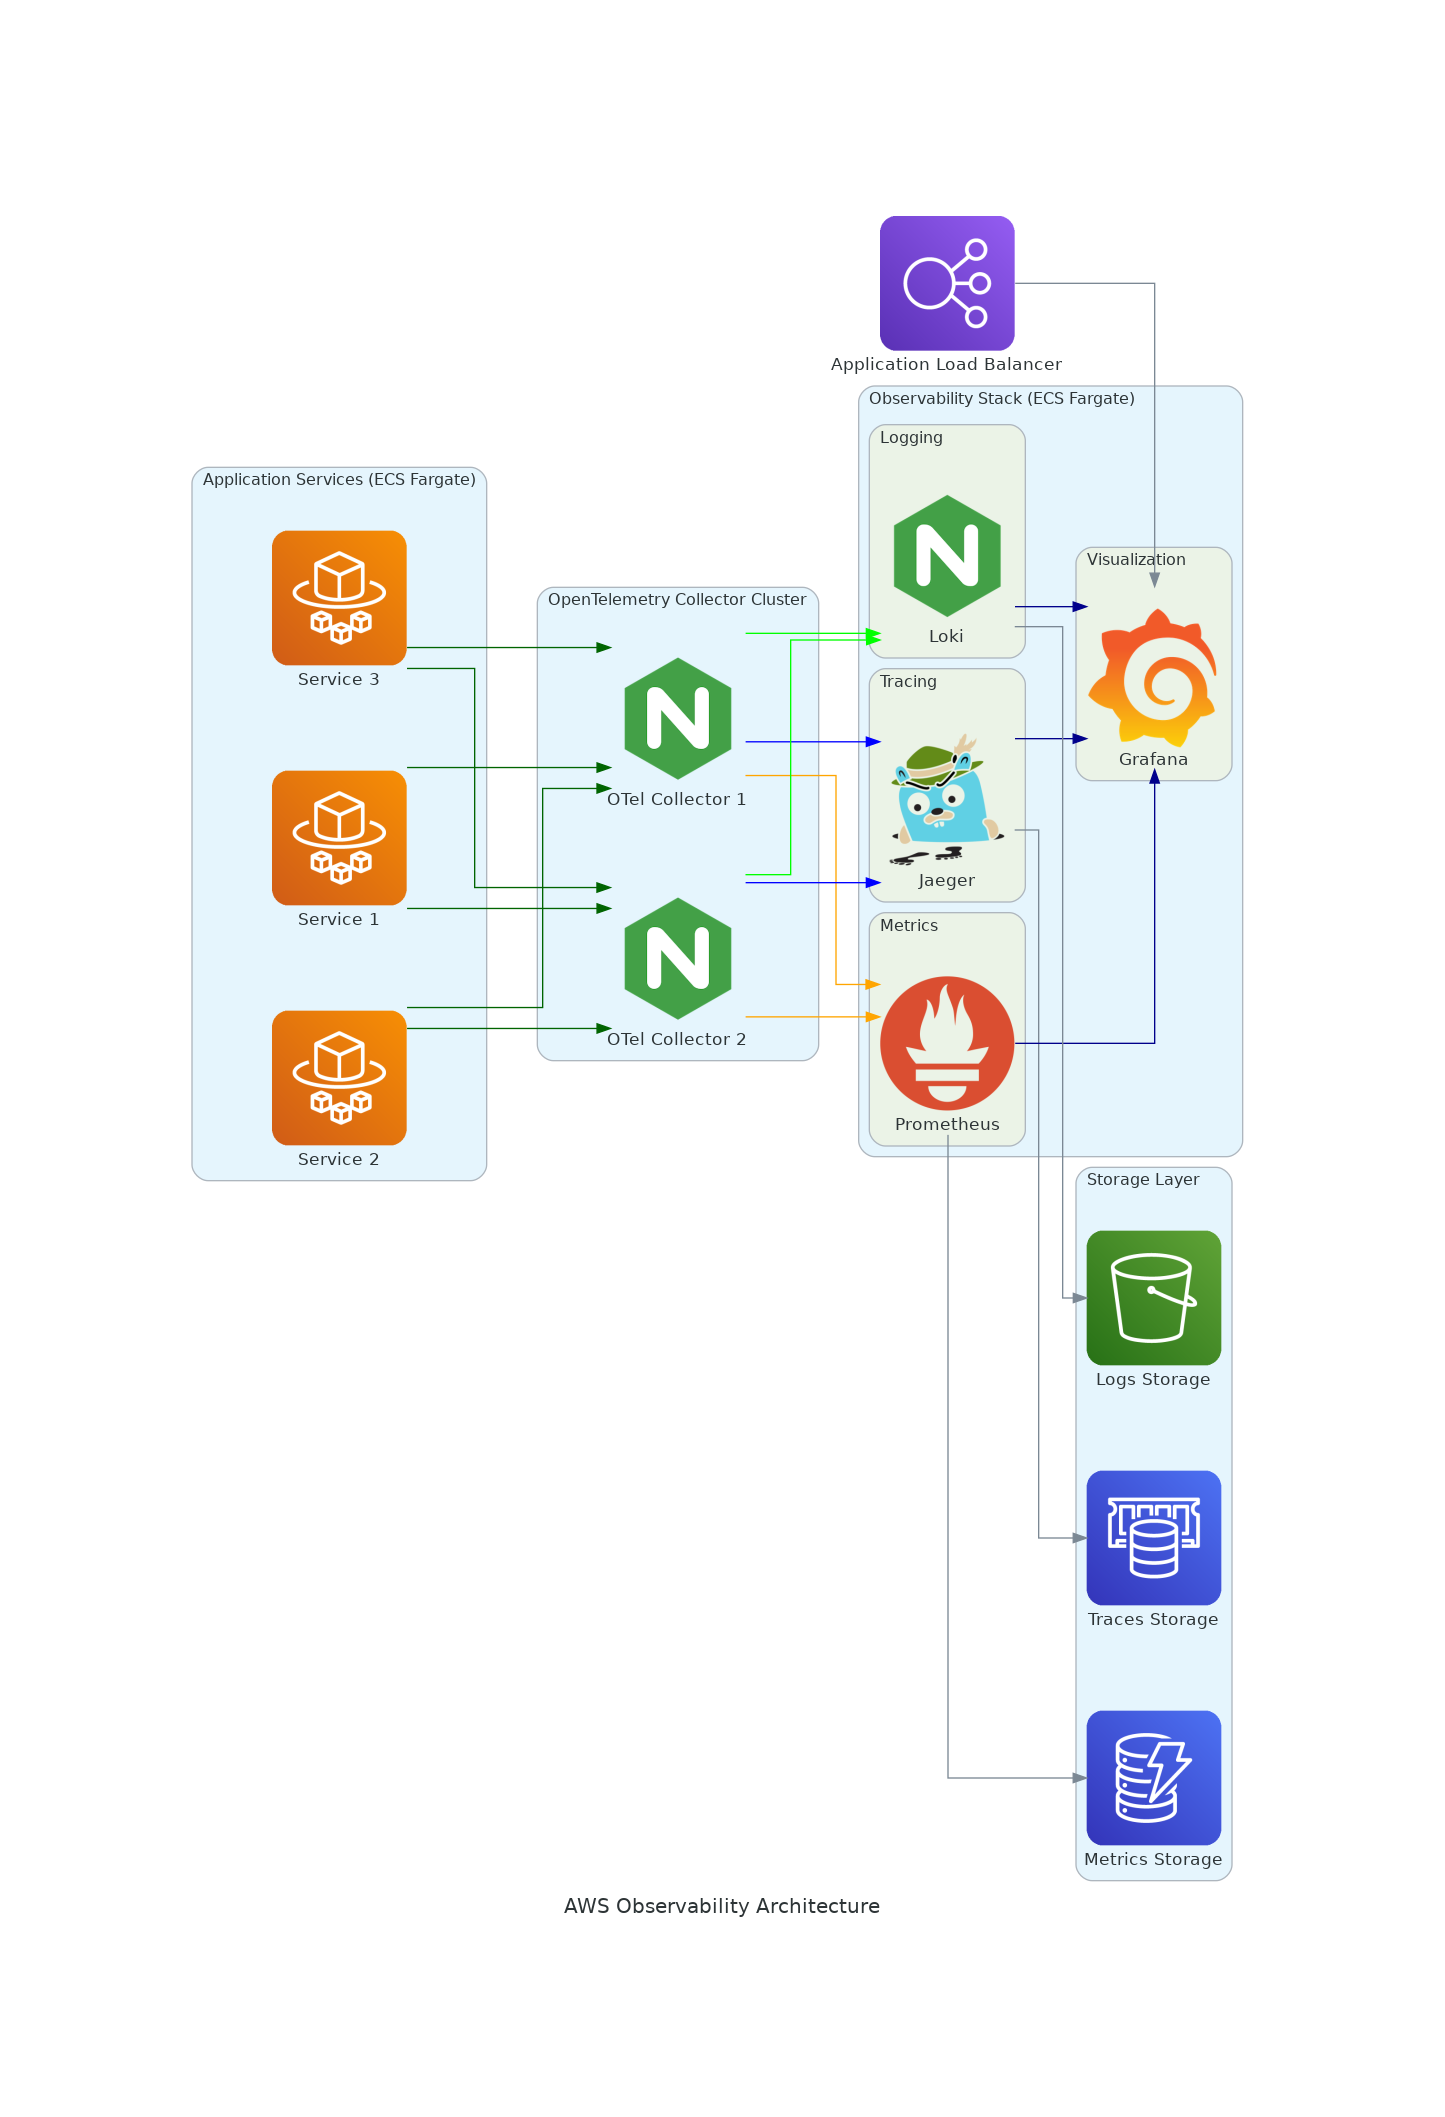
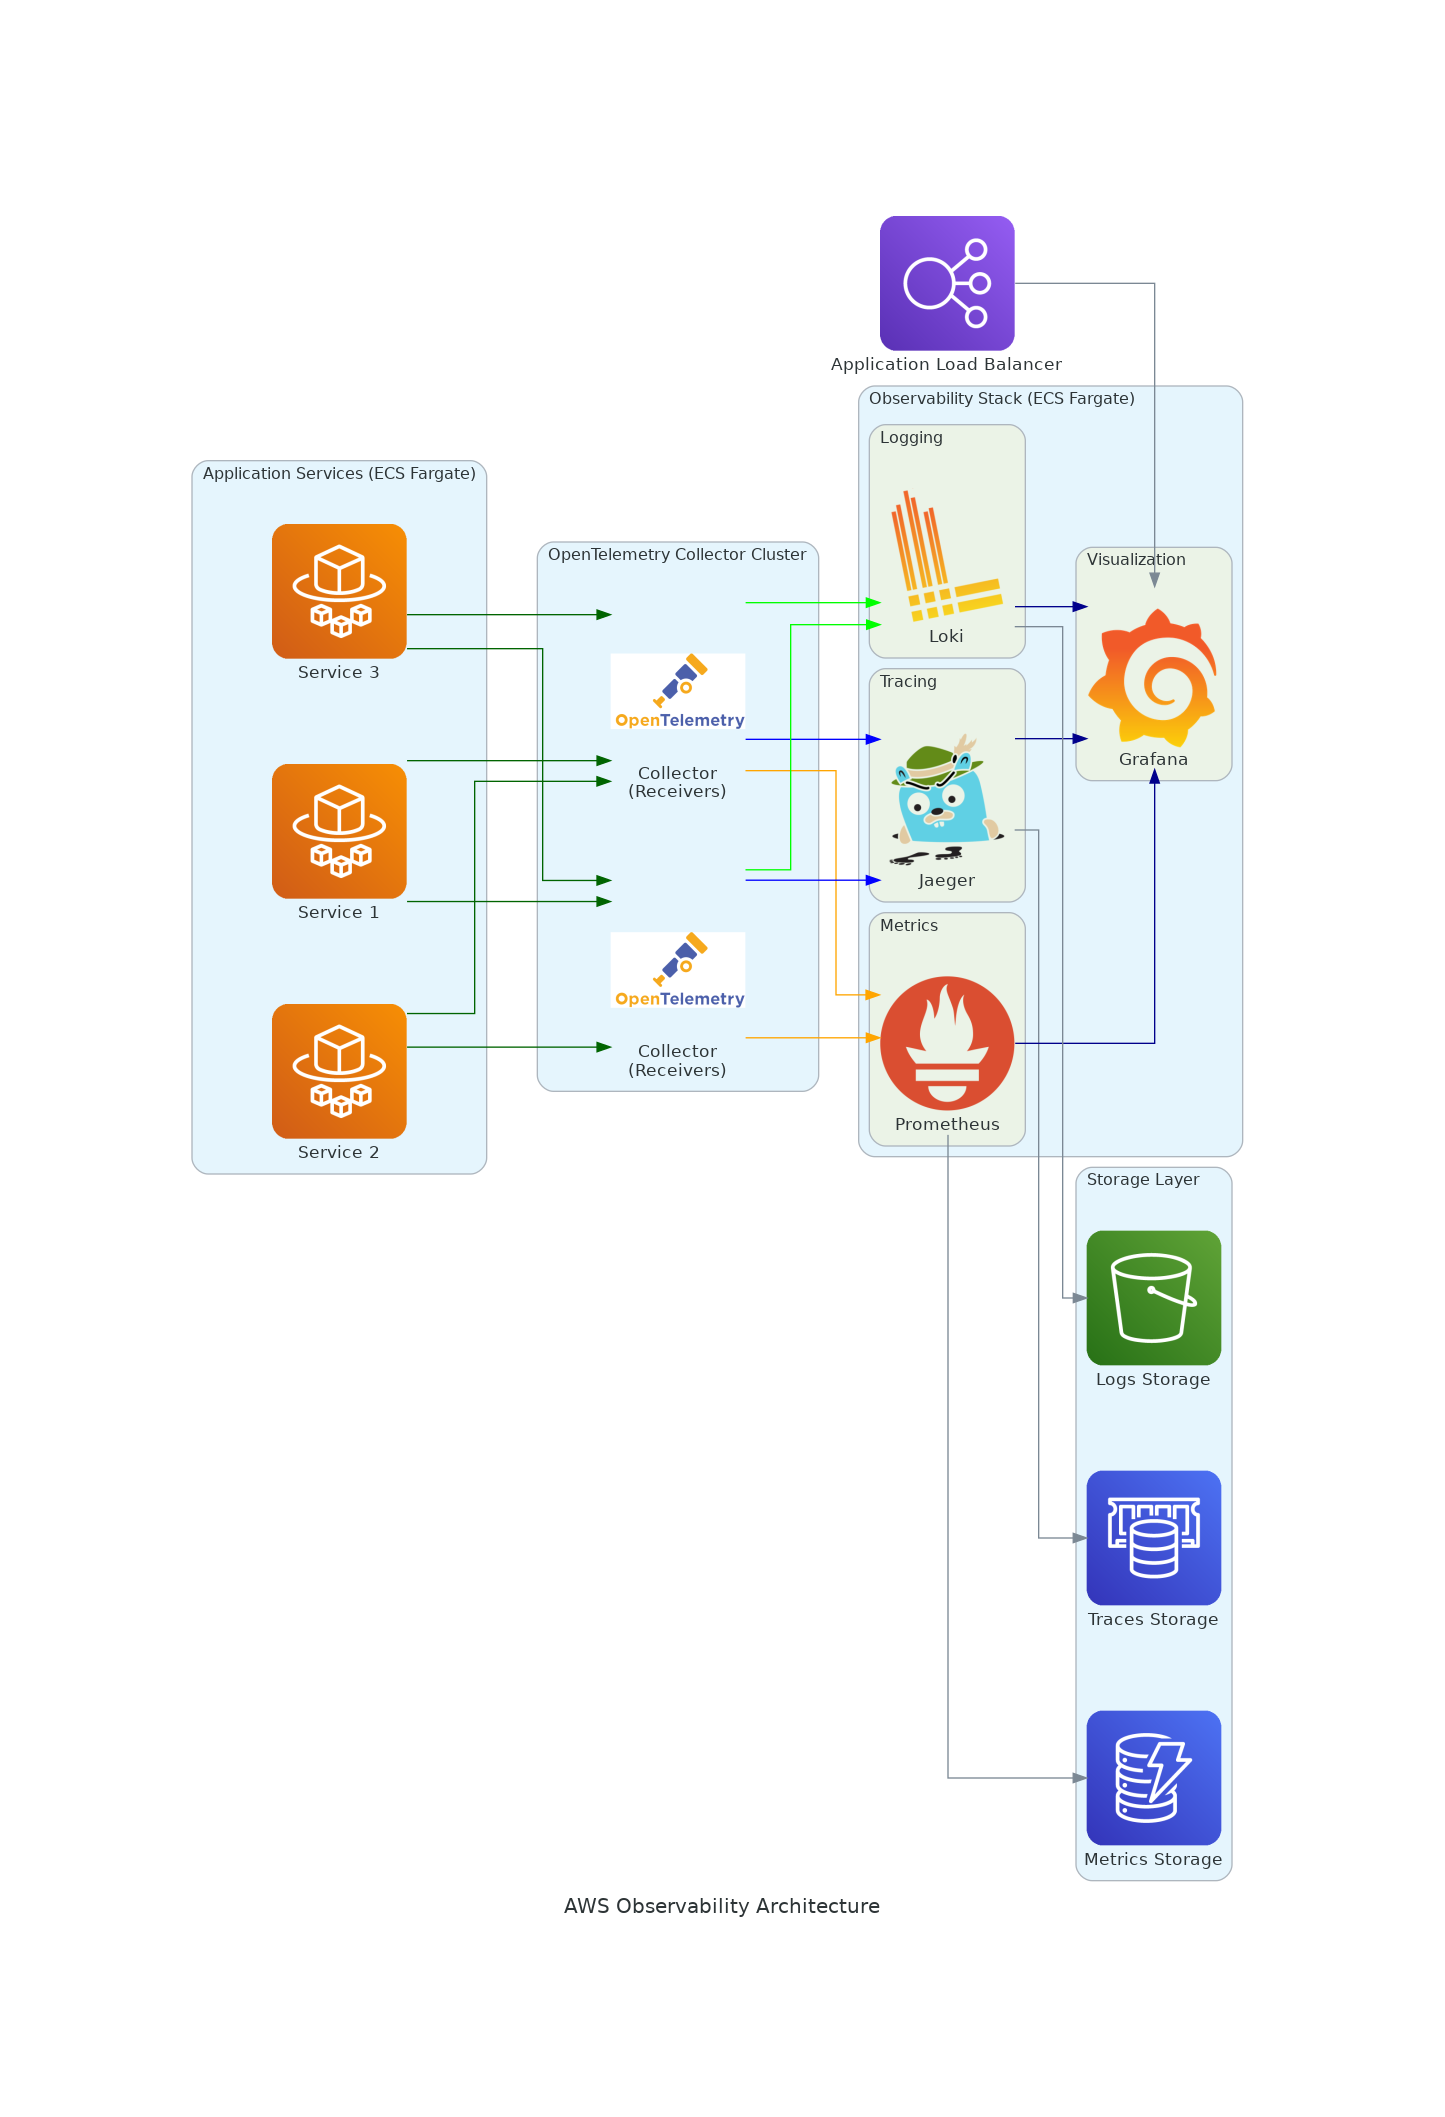
Adding diagram and notes files

diff --git a/Architecture/aws_observability_diagram.py b/Architecture/aws_observability_diagram.py
@@ -3,9 +3,10 @@ from diagrams.aws.compute import ECS, Fargate
 from diagrams.aws.storage import S3
 from diagrams.aws.database import ElastiCache, Dynamodb
 from diagrams.aws.network import ELB
-from diagrams.onprem.monitoring import Prometheus, Grafana, Loki, OpenTelemetry
+from diagrams.onprem.monitoring import Prometheus, Grafana
 from diagrams.onprem.tracing import Jaeger
-from diagrams.onprem.network import Nginx
+from diagrams.onprem.logging import Loki
+from diagrams.custom import Custom
 
 # Initialize diagram
 with Diagram("AWS Observability Architecture", show=False, filename="aws_observability_diagram"):
@@ -23,10 +24,9 @@ with Diagram("AWS Observability Architecture", show=False, filename="aws_observa
     
     # OpenTelemetry Collector
     with Cluster("OpenTelemetry Collector Cluster"):
-        # Using Nginx icon as a substitute for OpenTelemetry Collector
         otel_collectors = [
-            OpenTelemetry("OTel Collector 1"),
-            OpenTelemetry("OTel Collector 2")
+            Custom("Collector\n(Receivers)", "./icons/otel_collector_receiver.png"),
+            Custom("Collector\n(Receivers)", "./icons/otel_collector_receiver.png")
         ]
     
     # Observability Stack
@@ -38,7 +38,6 @@ with Diagram("AWS Observability Architecture", show=False, filename="aws_observa
             prometheus = Prometheus("Prometheus")
         
         with Cluster("Logging"):
-            # Using Nginx icon as a substitute for Loki
             loki = Loki("Loki")
         
         with Cluster("Visualization"):
